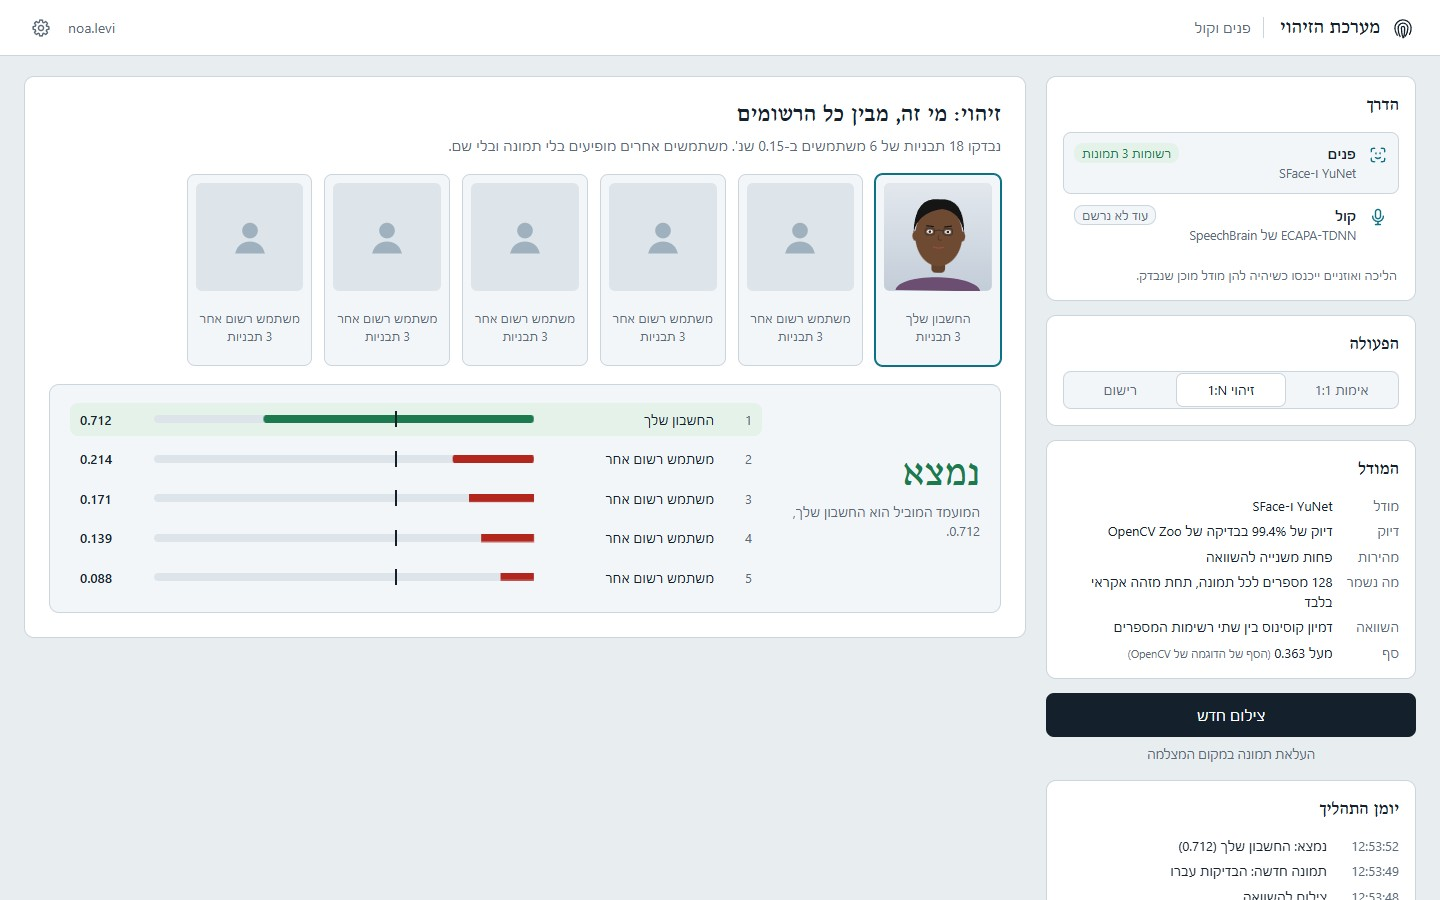
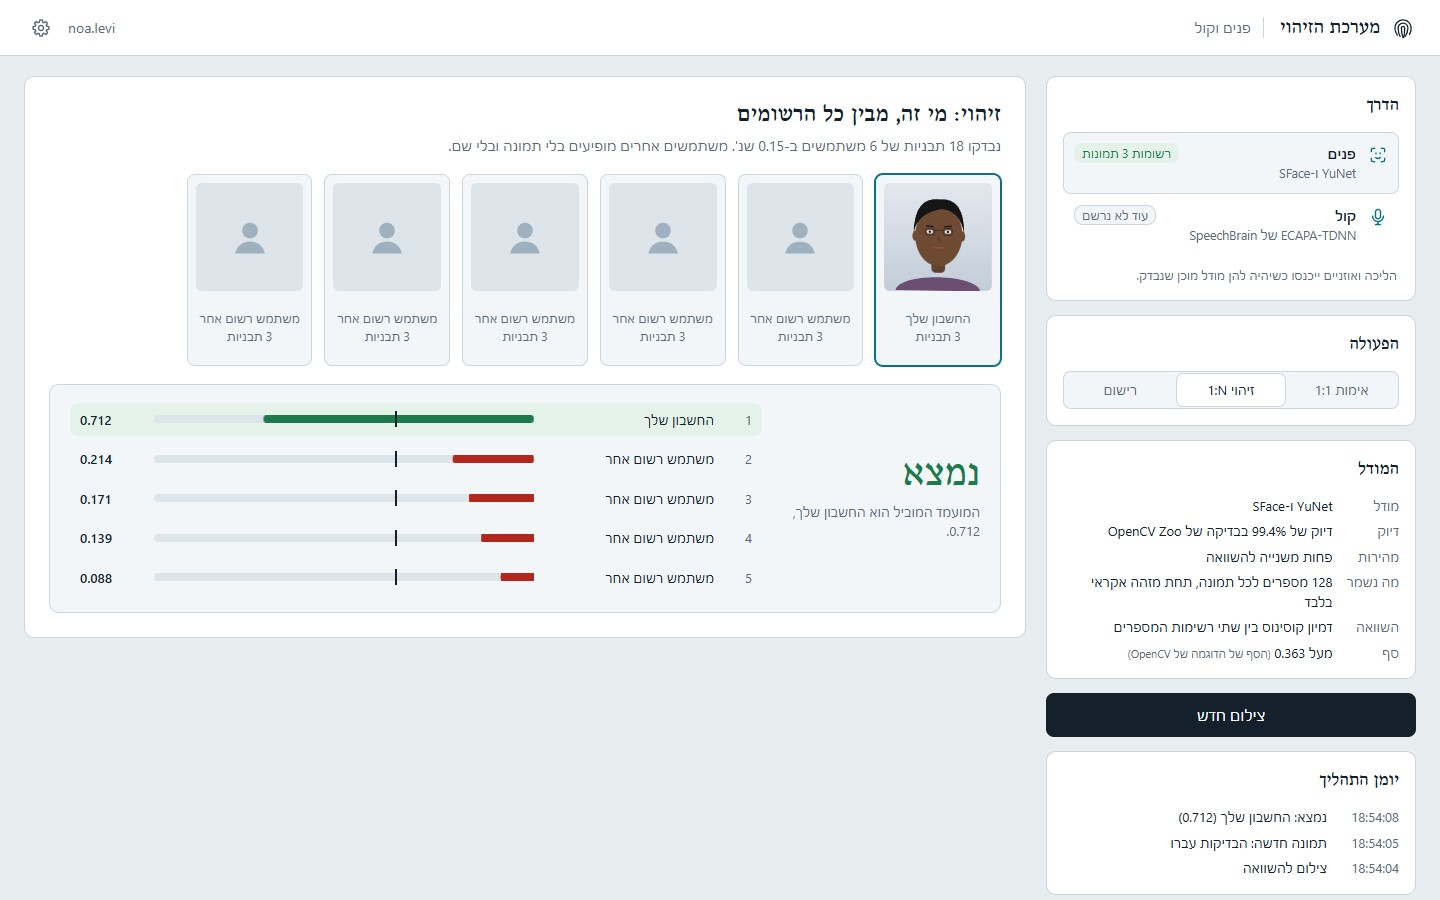
Take face and voice findings from files, out of sight (H27)
The researcher answered H25's open question: a face image or a voice
recording may come from a file, as the new finding of a 1:1 verification or
a 1:N identification only. Enrolment takes the PC's camera and microphone
alone and fingerprints always come from the scanner (D1). The decision
fixes the accepted files and their limits, keeps only the normalised
finding sealed (no original file, metadata or name), adds attempt.source
with a check for fingerprints, and keeps the upload out of sight behind a
"more options" menu beside the device's view or a file dragged onto the
window. The specification, the data model and AGENTS.md follow, together
with the earlier status of the motion review; the README's face screenshot
no longer shows the old upload link.

Changed region(s): [[0.75, 0.8089, 0.9688, 1.0]]

diff --git a/docs/specification.md b/docs/specification.md
@@ -2,7 +2,7 @@
 
 Approved by the researcher on 2026-10-20 (H11–H20 in `docs/decisions.md`),
 from the draft of 2026-10-19 as revised on 2026-10-20, and amended with his
-approval since (H24–H26). Every decision is cited by its ID; a change needs
+approval since (H24–H27). Every decision is cited by its ID; a change needs
 the researcher's approval and a new entry in the decision record.
 
 ## 1. Purpose and scope
@@ -98,6 +98,11 @@ The two databases share no key: only the encrypted identity link connects an
 account to its subject, and rows of the biometric database name people only
 by their subject identifiers. The exact tables, with every column, key and
 encrypted value, are in `docs/data-model.md` (H25).
+
+A face image or a voice recording taken from a file (H27) is recognised by its
+content, never by its name or stated type, and decoded in its engine; only the
+normalised finding is kept, sealed like a capture from the device, so neither
+the original file, its metadata nor its name is stored.
 
 ### Cryptography (the `cryptography` package for every primitive, H4)
 
@@ -204,6 +209,9 @@ flow of 2026-10-18).
 ### 5.2 Face
 
 - **Capture:** the integrated camera, through the client.
+- **Files (H27):** for 1:1 and 1:N only, never for enrolment: JPEG or PNG up
+  to 10 MB, at least 240 pixels on the short side and at most 50 million
+  pixels, with exactly one face; kept as its pixels, as PNG.
 - **Models:** YuNet for detection (MIT) and SFace for recognition (Apache
   2.0), from OpenCV Zoo, run with OpenCV in the system's face environment.
   SFace gives an embedding of fixed length (128 values according to secondary
@@ -217,6 +225,8 @@ flow of 2026-10-18).
 ### 5.3 Voice
 
 - **Capture:** the microphone, through the client, as 16 kHz mono audio.
+- **Files (H27):** for 1:1 and 1:N only, never for enrolment: WAV, MP3 or OGG
+  up to 10 MB and 3 to 30 seconds long, converted to 16 kHz mono.
 - **Model:** SpeechBrain's ECAPA-TDNN trained on VoxCeleb
   (`speechbrain/spkrec-ecapa-voxceleb`, Apache 2.0): a 192-value embedding
   compared by cosine similarity; SpeechBrain's verification threshold is 0.25,
@@ -260,6 +270,12 @@ provisional thresholds. For the drawings, the engines also
 return the matched coordinates; only the research score decides (H18). In 1:N
 results, other users appear as "another registered user", without their
 names, and drawings use only the user's own prints (H18).
+
+Files for face and voice (H27) stay out of sight until someone looks for
+them: the capture from the device is the only prominent action; a small "more
+options" button (⋯) beside the device's view opens a menu that takes a file,
+and a file dragged onto the window shows the drop target only while it is
+dragged. Enrolment offers neither, and a result names its source.
 
 ## 7. Attempts and audit (H6, H12)
 
@@ -346,3 +362,6 @@ and reported on its own.
   subject (4, 7).
 - **H26** The client's main process as its only network client, keeping the
   session token, behind a preload bridge with a fixed list of routes (3).
+- **H27** Face and voice findings from files, for 1:1 and 1:N only, kept
+  normalised and sealed, recorded as the attempt's source and reached only
+  through a "more options" menu or by dragging (4, 5.2, 5.3, 6).

diff --git a/docs/decisions.md b/docs/decisions.md
@@ -371,3 +371,46 @@ present. He left the open questions to the specification.
   - `serve` brings the tables up to date before it answers, so a newer
     server, such as this one with the account's theme (H24), upgrades the
     databases when it first starts.
+
+## 2026-10-23 — findings from files
+
+- **H27** Approved by the researcher on 2026-10-23, answering H25's open
+  question (on 2026-10-22 he said that findings may also come from files): a
+  face image or a voice recording may be taken from a file as the new
+  finding of a 1:1 verification or a 1:N identification. Within H6, H14, H17
+  and H25:
+  - Face and voice only. A fingerprint always comes from the scanner, whose
+    captures H7 checks; a file cannot show that it was captured natively at
+    1000 ppi (D1).
+  - Verification and identification only. Enrolment, the reference that
+    every later comparison relies on, takes its findings from the PC's
+    camera and microphone alone: without liveness detection (out of scope,
+    H6), an enrolment from a file would let anyone enrol another person from
+    a picture or a recording.
+  - The files accepted: faces as JPEG or PNG, up to 10 MB, at least 240
+    pixels on the short side and at most 50 million pixels (OpenCV's
+    `OPENCV_IO_MAX_IMAGE_PIXELS`), with exactly one face found; voices as
+    WAV, MP3 or OGG, up to 10 MB and 3 to 30 seconds long, decoded with
+    libsndfile and converted to 16 kHz mono. M4A (AAC) and HEIC would need
+    further decoders (FFmpeg, a HEIF library) and are not accepted. The
+    exact libraries come with the download lists of increments 4 and 5.
+  - The server recognises a file by its content, never by its name or the
+    type the client states, checks its size before reading it whole, and
+    decodes it in the modality's engine. Only the normalised finding is
+    kept, sealed like a capture from the device: the image's pixels as PNG,
+    which drops metadata such as a GPS position or a camera's serial number,
+    and the recording as 16 kHz mono WAV. Neither the original file nor its
+    name is kept.
+  - The attempt records where its finding came from: `attempt.source`,
+    `device` (the default) or `file`, created with the table in increment 2,
+    and a check in the database keeps fingerprint attempts to `device`.
+    `sample` is unchanged, since enrolment takes no files.
+  - The upload stays out of sight until someone looks for it, the
+    progressive disclosure that large products use for rare alternatives:
+    the capture from the device is the only prominent action, and no
+    button, link or drop area for files shows by default. A small "more
+    options" button (⋯) beside the device's view opens a menu whose one item
+    takes a file, with a line saying that a file can also be dragged onto
+    the window; a file dragged over the window shows the drop target only
+    while it is dragged. Enrolment's pages offer neither. The result names
+    its source, and the administration's history can filter by it.

diff --git a/AGENTS.md b/AGENTS.md
@@ -241,8 +241,8 @@ SPY -m http.server 4173 --bind 127.0.0.1 --directory local/prototypes
   accounts and the audit log; it never shows samples or national IDs (H12).
   The researcher answered H25's open question: findings may also come from
   files, uploaded with a button or by drag and drop, while the capture from
-  the PC's own devices stays the dominant option; this needs its own
-  decision entry before it enters the data model.
+  the PC's own devices stays the dominant option; recorded as H27 on
+  2026-10-23.
 - 2026-10-23: screen 4 (face and voice) followed in
   `local/prototypes/screen-4/`, in the same three directions and both
   themes: the list of the two modalities, enrolment from three findings
@@ -257,3 +257,14 @@ SPY -m http.server 4173 --bind 127.0.0.1 --directory local/prototypes
   screenshots are taken offscreen with
   `local/tools/prototype-shots/readme-shots.json`; once the client has the
   chosen direction (H22), screenshots of the real client replace them.
+- 2026-10-23: screens 3 and 4 passed a strict motion review after fixes: the
+  steps of one capture redraw quietly, so only what is new enters (the
+  guided page used to re-enter at every step); the 1:N pass over the
+  gallery now plays; tab switches no longer animate; reduced motion keeps
+  short fades and the capture's countdown. Their click-through checks pass
+  (14 and 12).
+- 2026-10-23 (H27): face and voice findings may come from files, for 1:1
+  and 1:N only (enrolment and fingerprints never), kept normalised and
+  sealed, with `attempt.source` created in increment 2. The upload stays out
+  of sight: a "more options" menu (⋯) beside the device's view, or a file
+  dragged onto the window. Screen 4's prototype follows it.

diff --git a/docs/data-model.md b/docs/data-model.md
@@ -192,6 +192,7 @@ erDiagram
         double threshold
         boolean accepted
         integer duration_ms
+        varchar source "device or file"
         bytea probe "sealed"
     }
 ```
@@ -302,7 +303,8 @@ table.
 | `threshold` | `double precision` | the threshold used (H16) |
 | `accepted` | `boolean` | same person (1:1), or found (1:N) |
 | `duration_ms` | `integer` | |
-| `probe` | `bytea` | the sealed new capture |
+| `source` | `varchar(8)` | `device` (the default) or `file` (H27); a check keeps fingerprint attempts to `device` |
+| `probe` | `bytea` | the sealed new capture; from a file, its normalised form: a face's pixels as PNG, a voice as 16 kHz mono WAV, without the original file or its name |
 
 The attempt's outcome stays unsealed, so the administration area can filter
 the history (H12); its capture is sealed (H14). The administration area turns
@@ -335,6 +337,6 @@ of a face image is known once the camera is tried (increment 4).
   without the key file could still guess links from matching times.
 - Face and voice embeddings are unsealed (H14), so they are kept only under
   subject identifiers.
-- Findings come only from the PC's scanner, camera and microphone. Taking a
-  finding from a file (for example a face image from elsewhere) would add a
-  `source` column to `sample` and `attempt`.
+- Enrolments take their findings only from the PC's scanner, camera and
+  microphone, so `sample` has no source; a face or voice attempt may take its
+  new finding from a file (H27), as `attempt.source` records.
